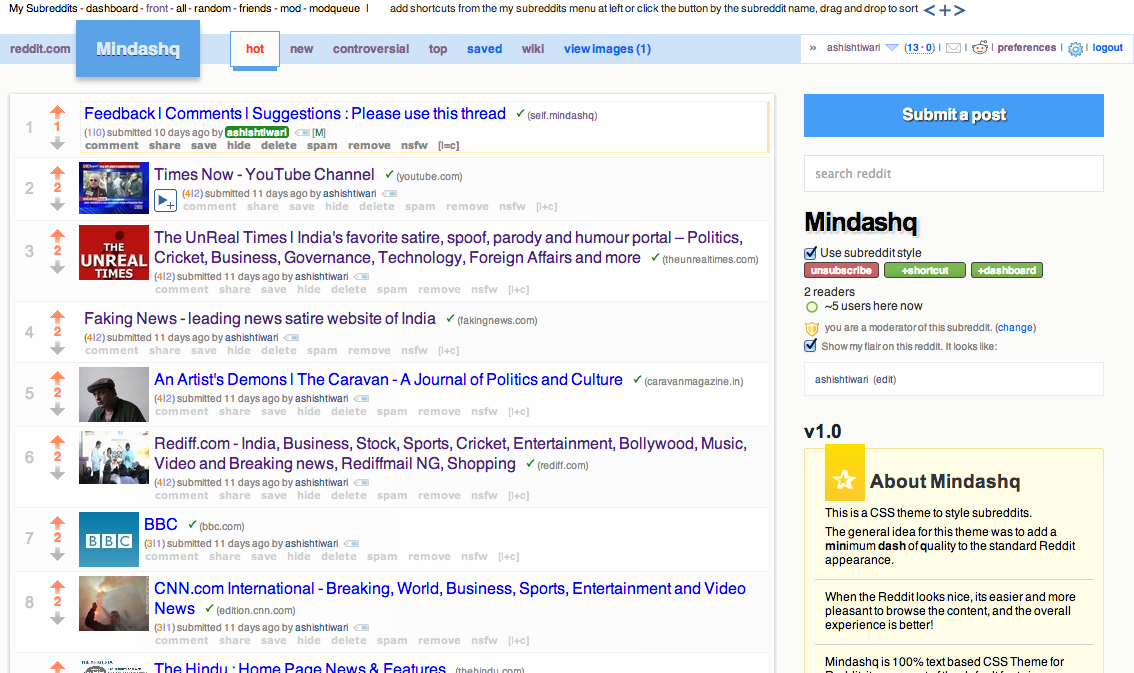
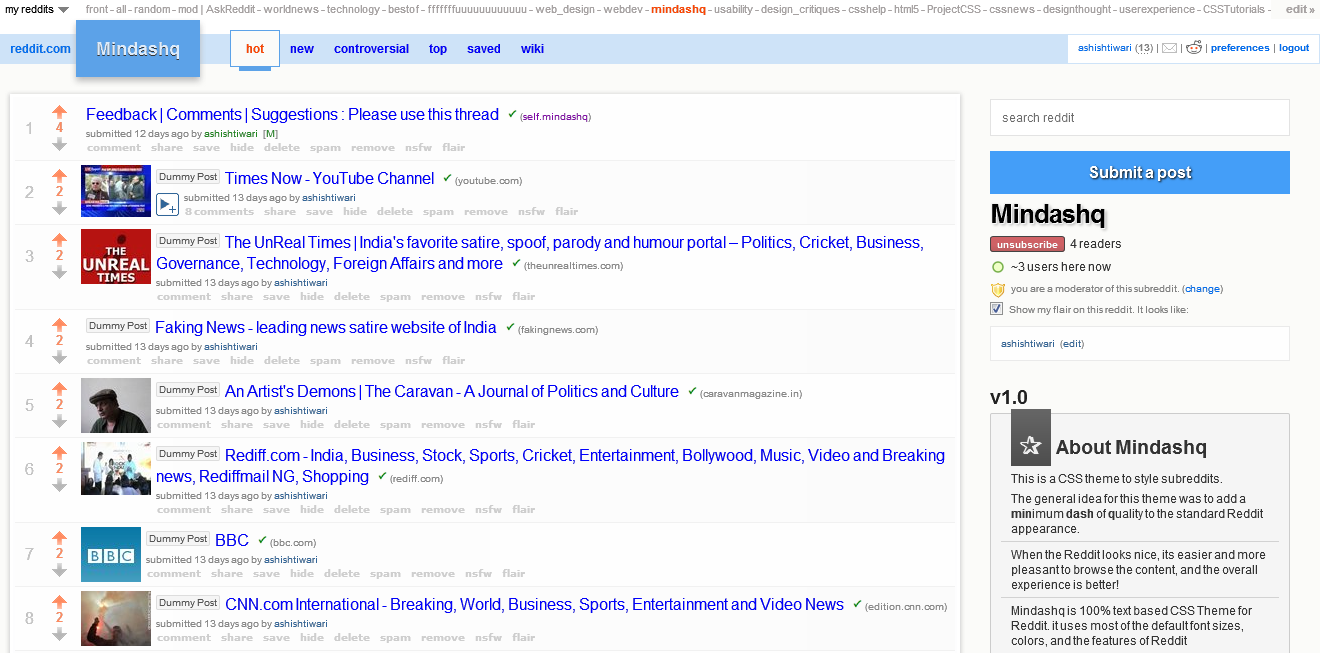
modules update
added Navigator module.
refactored main css for possibility of adding navigator module and
sidebar text for navigation block

Changed region(s): [[0.0, 0.0, 1.0, 1.0]]

diff --git a/12.a Navigator.css b/12.a Navigator.css
@@ -1,0 +1,97 @@
+/* --  12.a Navigator
+			Stepped navigation for header
+			Applies to LAST blockquote element in sidebar
+			Supports uto two levels of drill down
+			Appears at bottom of sidebar when CSS is removed or overridden
+			
+	Add only when corresponding markup is added in sidebar
+---------------------------------------------------*/
+.side .md > blockquote:last-child {
+	display: none;
+}
+
+body.listing-page .side .md > blockquote:last-child,
+body.messages-page .side .md > blockquote:last-child,
+body.single-page .side .md > blockquote:last-child {
+	position: absolute;
+	left: 262px;
+	top: 35px;
+	display: block;
+	background-color: transparent;
+	border: 0px none;
+	padding: 3px 5px 0px;
+	margin: 0px;
+	z-index: 99;
+}
+	/*----------- last child only*/
+	body.listing-page .side .md > blockquote:last-child > h1,
+	body.single-page .side .md > blockquote:last-child > h1 {
+		overflow: hidden;
+		font-size: 1.6em;
+		line-height: 1.6em;
+		color: #1f96ca;
+		background-color: #cee3f8;
+	}
+
+		body.listing-page .side .md > blockquote:last-child > h1 a,
+		body.single-page .side .md > blockquote:last-child > h1 a {
+			color: #1f96ca;
+			background-color: #cee3f8;
+		}
+
+		body.listing-page .side .md > blockquote:last-child > h1 em,
+		body.single-page .side .md > blockquote:last-child > h1 em {
+			display: none;
+		}
+
+	body.listing-page .side .md > blockquote:last-child ul,
+	body.single-page .side .md > blockquote:last-child ul {
+		display: none;
+		vertical-align: top;
+		list-style-image: none;
+		list-style: none outside;
+		vertical-align: top;
+		white-space: normal;
+		margin: 0px;
+		padding: 0px;
+		overflow: visible;
+	}
+
+	body.listing-page .side .md > blockquote:last-child:hover > ul,
+	body.single-page .side .md > blockquote:last-child:hover > ul {
+		display: block;
+		padding: 0px 250px 10px 0px;
+	}
+
+	body.listing-page .side .md > blockquote:last-child li,
+	body.single-page .side .md > blockquote:last-child li {
+		height: 30px;
+		width: 150px;
+		line-height: 30px;
+		padding: 5px 15px 0px;
+		border-width: 0px 1px 1px 1px;
+		border-style: solid;
+		border-color: #ccc;
+		background-color: #f5f5f5;
+	}
+
+		body.listing-page .side .md > blockquote:last-child li:first-child,
+		body.single-page .side .md > blockquote:last-child li:first-child {
+			border-width: 1px;
+		}
+
+	body.listing-page .side .md > blockquote:last-child > ul > li:hover > ul,
+	body.single-page .side .md > blockquote:last-child > ul > li:hover > ul {
+		display: inline-block;
+		margin-left: 167px;
+		margin-top: -36px;
+		overflow: hidden;
+		height: auto;
+	}
+
+	body.listing-page .side .md > blockquote:last-child li > ul > li,
+	body.single-page .side .md > blockquote:last-child li > ul > li {
+		background-color: #ddd;
+	}
+
+/*---------------------------------------------------*/

diff --git a/mindashq.css b/mindashq.css
@@ -52,11 +52,18 @@ h3 {
 	}
 
 hr,
-.side .md hr {
+.side .md hr,
+.side .md > hr + hr {
 	height: 1px;
 	width: 100%;
-	margin: 12px 0px 10px 0px;
+	margin: 0px;
 }
+
+.side .md > hr {
+	width: 0px;
+	margin: 0px 0px 12px 0px;
+}
+
 /* --  1.1 Selective dimming of link buttons
 --------------------------------------------------- */
 .entry > .flat-list > li {
@@ -346,8 +353,6 @@ a.pref-lang {
 		#header ul.tabmenu li.selected a:hover {
 		}
 
-/* --  3.6 Menu-buttons   - [TBD ] stepped top navigation
----------------------------------------------------*/
 
 /* ~~  4. Content Pane and Link Listings
 ~~~~~~~~~~~~~~~~~~~~~~~~~~~~~~~~~~~~~~~~~~~~~~~~~~ */
@@ -1447,7 +1452,7 @@ a {
 }
 
 	a:visited {
-		color: #846090; /* #930ea5 #a90dbe #551a8b #609  #846090;*/
+		color: #810ba8; /* #846090 #930ea5 #a90dbe #551a8b #609  #846090;*/
 	}
 
 	a:hover {
@@ -1497,7 +1502,11 @@ hr,
 }
 
 	#sr-header-area .separator {
-		color: #2d2d2d;
+		color: #a7a2a2;
+	}
+
+	#sr-header-area a {
+		color: #a7a2a2;
 	}
 
 #header #srLeftContainer,
@@ -1656,7 +1665,6 @@ a.pref-lang {
 				color: #1f96ca;
 			}
 
-/* ``    3.6 Menu-buttons   - [TBD ] stepped top navigation  ```````` */
 
 /* ``    4.1 Content Box  ```````` */
 div.content {
@@ -3417,5 +3425,5 @@ body.res-nightmode {
 
 
 /* ~~  
-12. SUBREDDIT-SPECIFIC STYLES - add you own styles below without modifying the code above.
+12. Modules for specific Customization
 ~~~~~~~~~~~~~~~~~~~~~~~~~~~~~~~~~~~~~~~~~~~~~~~~~~ */
